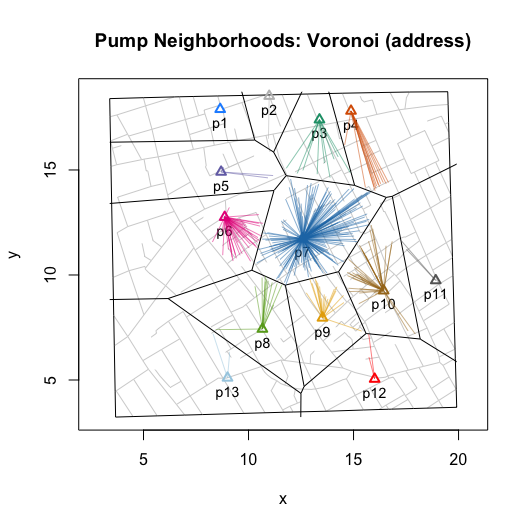
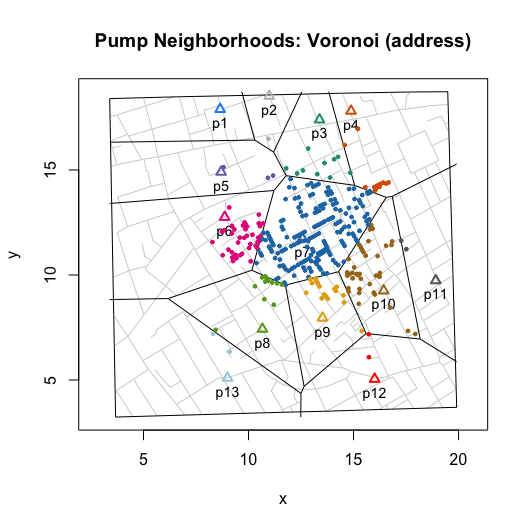
update README neighborhoodVoronoiB() example

diff --git a/README.md b/README.md
@@ -1,7 +1,7 @@
 
 <!-- README.md is generated from README.Rmd. Please edit that file -->
 [![CRAN\_Status\_Badge](http://www.r-pkg.org/badges/version/cholera)](https://cran.r-project.org/package=cholera)
-[![GitHub\_Status\_Badge](https://img.shields.io/badge/GitHub-0.7.9.9061-red.svg)](https://github.com/lindbrook/cholera/blob/master/NEWS)  
+[![GitHub\_Status\_Badge](https://img.shields.io/badge/GitHub-0.7.9.9062-red.svg)](https://github.com/lindbrook/cholera/blob/master/NEWS)  
 ## cholera: amend, augment and aid analysis of Snow’s cholera map
 
 #### package features
@@ -226,6 +226,11 @@ snowMap(latlong = TRUE)
 ```
 
 <img src="man/figures/README-latlong-1.png" width="50%" /><img src="man/figures/README-latlong-2.png" width="50%" />
+
+``` r
+plot(neighborhoodVoronoi())
+neighborhoodVoronoiB()
+```
 
 <img src="man/figures/README-latlong_voronoi-1.png" width="50%" /><img src="man/figures/README-latlong_voronoi-2.png" width="50%" />
 
